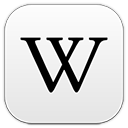
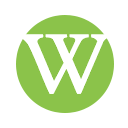
Uploaded Wikipedia Search 8.0.1

diff --git a/welcome.html b/welcome.html
@@ -24,6 +24,7 @@ You should have received a copy of the GNU General Public License along with thi
 			<p><b>New languages:</b> Added support for the Urdu, Phasa Thai, and Min Nan Wikipedias.</p>
 			<p><b>Code cleanup:</b> Wikipedia Search 8.0 has moved much of the JavaScript code to JQuery, as well as other improvements.</p>
 			<p><i>And lots of minor bug fixes!</i></p>
+			<p><b>New in Wikipedia Search 8.0.1: </b> New icon!</p>
 		</article>
 		<article>
 			<h2>Getting Started</h2>

diff --git a/README.md b/README.md
@@ -7,23 +7,14 @@ If English isn't your main language, it's easy to change the language Wikipedia 
 __Wikipedia is a trademark of the Wikimedia Foundation.__
 
 ---------------------------------------------------------
+__New in Wikipedia Search 8.0.1:__
+* New icon!
+
 __New in Wikipedia Search 8.0:__
 * Updated settings page with auto-save.
 * Added support for settings shortcut to Opera.
 * Added support for the Urdu, Phasa Thai, and Min Nan Wikipedias.
 * Cleaned up code.
-
-__New in Wikipedia Search 7.0.2:__
-* Added warning when using Wikipedia Search over HTTP connection.
-
-__New in Wikipedia Search 7.0.1:__
-* Added settings button to Wikipedia pages when side panel is disabled.
-
-__New in Wikipedia Search 7.0:__
-* Panel improvements: The Wikipedia Search panel (on the left side when browsing Wikipedia) has been improved and now correctly matches Wikipedia's design.
-* New language: Added support for the Estonian, Georgian, Chechen, and Bulgarian Wikipedias.
-* Code cleanup: Wikipedia Search 7.0's codebase has been improved, especially with content scripts being adjusted to work much better.
-* Slightly updated icon
 
 ---------------------------------------------------------
 
